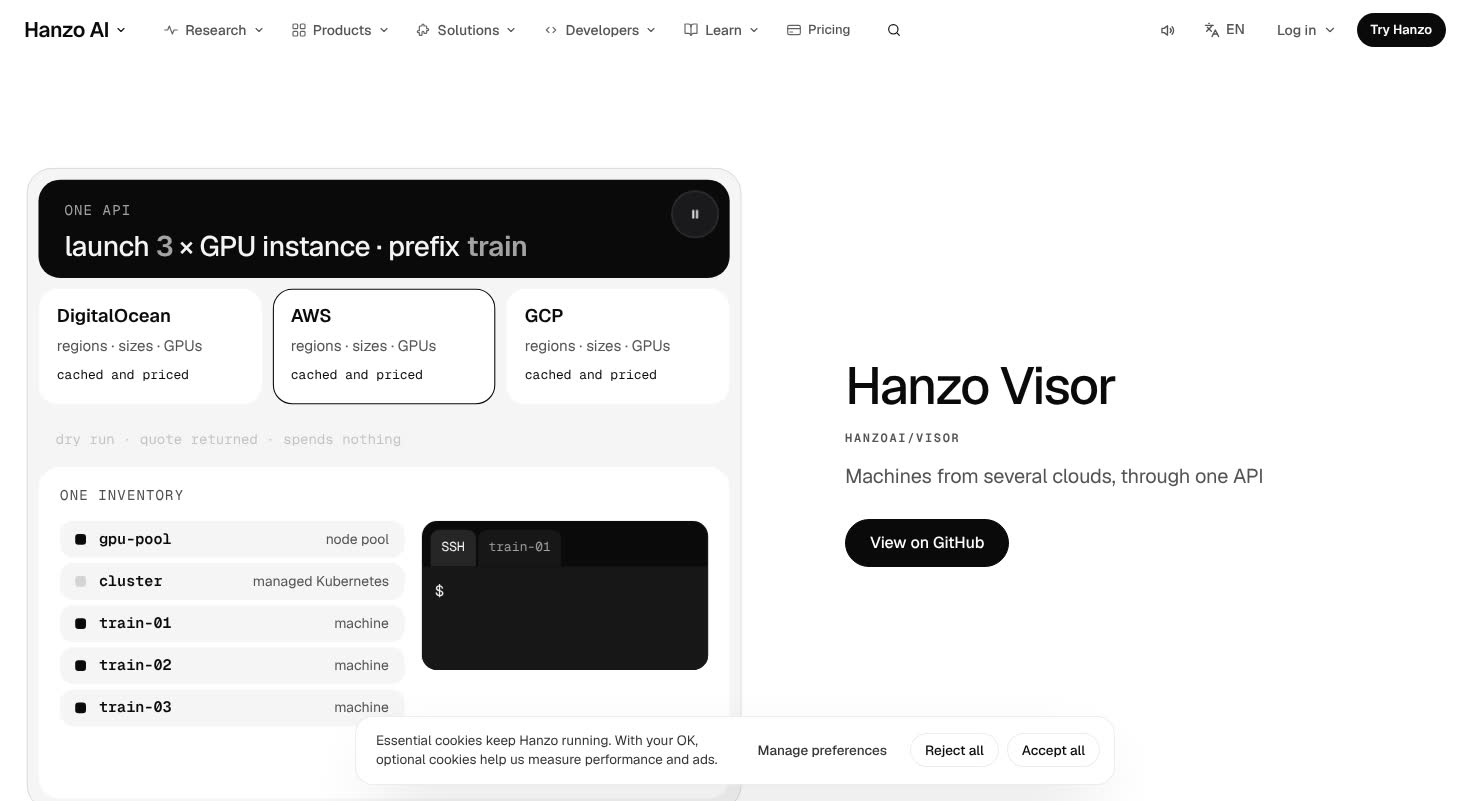
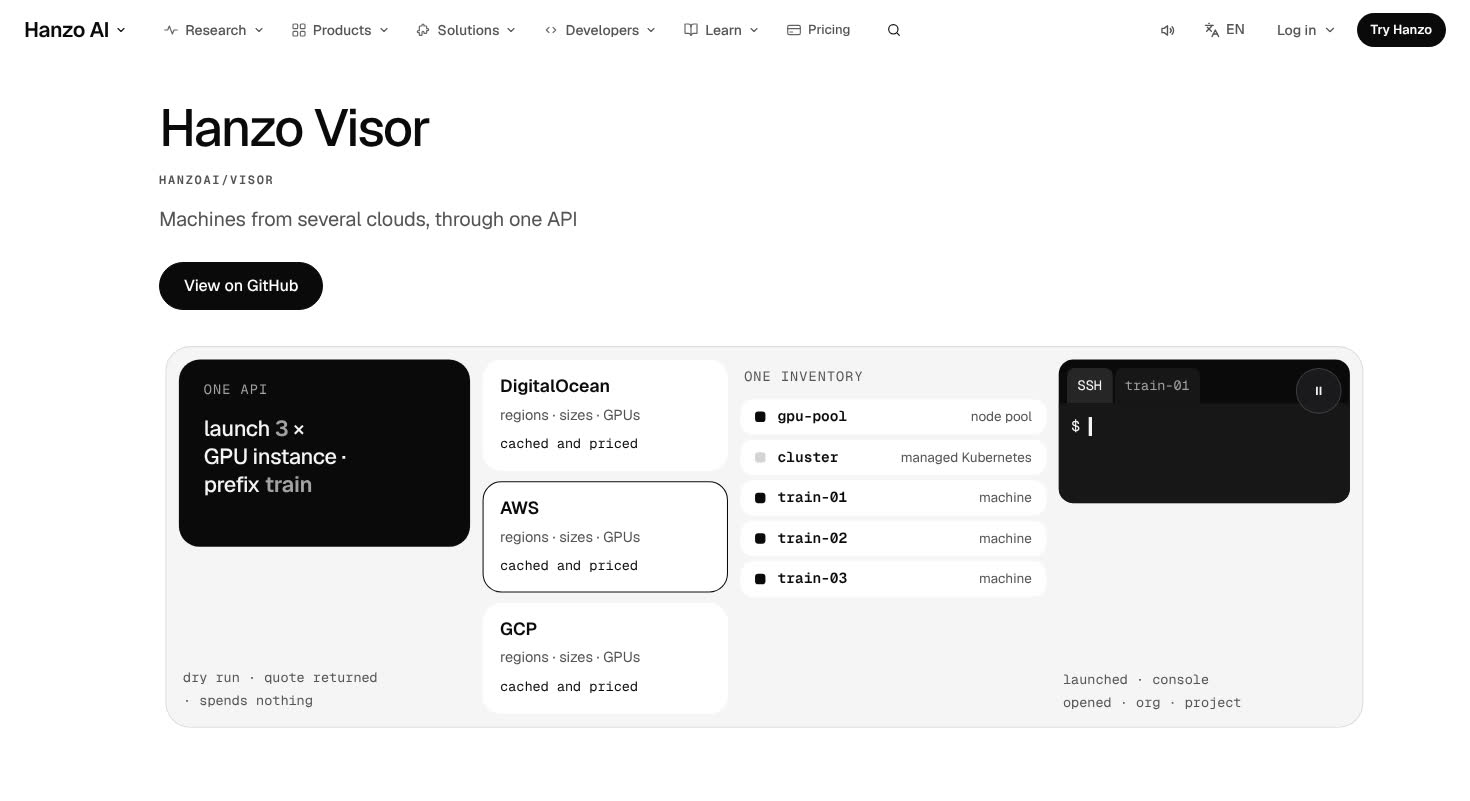
fix(visor): pinned 01-06 room with idle step, Finale gets the inventory object, rise hero over a pipeline console, readable greys, phone machines in first screen
Claude-Session: https://claude.ai/code/session_01T1hoMuQCRZTuURaQyoavQv

diff --git a/docs/coverage/visor.md b/docs/coverage/visor.md
@@ -3,10 +3,10 @@
 Page file: `components/pages/cloud/Visor.jsx` · gallery: `docs/gallery/visor/` · metric id: `cta_click:visor.primary`
 
 Open copy questions for James: "Fewer" (`c4_fewer`); "More" (`c4_more_machines`); "Machines" (`c4_machines`); "Launch" (`c4_launch`). Each is in `content/ui-strings.json` as needs_james; until approved the control is icon-only or the name is for screen readers only.
-Shared changes requested (`docs/requests/visor.md`): none.
-Forks this page deleted: the shared-element dialog that froze half open (kit Sheet now), the blinking "ready" lights, the "Name a fleet" label over the heading, the row of three equal tiles (now 01 wide, 02|03, 04|05, 06 wide).
+Shared changes requested: none filed. Noted for the shared owner: `Finale` renders two h2s ("Get started with Hanzo Visor" and "Get Visor"); not changed here.
+Forks this page deleted: the shared-element dialog that froze half open (kit Sheet now), the blinking "ready" lights, the "Name a fleet" label over the heading, the row of three equal tiles, then the 2-column grid of dark boxes (now one pinned room: a numbered list and one picture large), the `noscript` copy of the six paragraphs (they now sit in each row as `hidden="until-found"`).
 
-Measured on the dev server at 1470×801, 375×667 and 320×640 with `audit.cjs` (Playwright), JS on and off.
+Measured on the dev server at 1470×801, 375×812 and 320×640 with Playwright (`audit.js`, `shot.js`) and `scripts/motion.mjs`, JS on and off, 7 Nov round 2.
 
 ## 1. Strategy and conversion
 - [x] Header comment has Persona, Goal, CTA, metric id, Signature, Beyond
@@ -33,15 +33,15 @@ Done here: `<main id="main" data-ask="off">`; the layout's "Skip to content" tar
 - [x] Ends in proof strip, `Band`, footer
 - [ ] Card-to-page links use Morph; title lands within 12px (n/a: no card on this page opens another page)
 
-Done here: Hero is side, flipped (the fleet on 7 columns at left, copy at right); the object is one request launching three GPU machines: providers price, a dry run quotes, machines land in one inventory, so the launch sequence (first step at 0.5 s) moves within the first second. `PageHero` is not merged; the existing equivalent (`StageHero` or the page's own hero with the same line-mask cut-in, 700 ms ease-emphasis) is used, and the mono caption sits under the h1. JS off: h1 "Hanzo Visor" at opacity 1, 0 hidden headings or paragraphs. Rooms: hero (light) → six tiles (dark) → name a fleet (light) → closing band (dark). The live page has no proof strip, so it ends on the band and the footer.
+Done here: Hero is `StageHero look="rise"` with page-local CSS: a left-set title and, under it, the fleet console running left to right as a pipeline (request → three providers → one inventory → console), which rises 10svh as you scroll. The object is one request launching three GPU machines: providers answer, a dry run quotes, machines land in reserved slots of one inventory, so the launch sequence (first step at 0.5 s) moves within the first second. On the phone the providers sit side by side and the machines land first in the inventory, so train-01 and train-02 land inside the first 812px screen (y 717 and 756). `PageHero` is not merged; the existing equivalent (`StageHero` or the page's own hero with the same line-mask cut-in, 700 ms ease-emphasis) is used, and the mono caption sits under the h1. JS off: h1 "Hanzo Visor" at opacity 1, 0 hidden headings or paragraphs. Rooms: hero (light) → the pinned room of six (dark) → name a fleet (light) → closing band (dark), which carries Visor's own object: the inventory landing row by row with the SSH console open. The live page has no proof strip, so it ends on the band and the footer.
 
 ## 4. Conversion system
 - [x] `<Cta>` only; no raw `.x-btn`
-- [x] Sticky ask in header and bar after the hero, same label
+- [ ] Sticky ask in header and bar after the hero, same label (partly: the header carries Hanzo's "Try Hanzo" at every width; the page's own ask is "View on GitHub" in the hero and the close; the bar is off)
 - [x] Copy button copies exactly the displayed text; failure never says Copied
 - [x] `data-cta` and `data-thumb` on every primary
 
-Done here: 0 `.x-btn` without `data-cta` in main; CTAs found: primary*, close*, deploy (* = solid). The header carries the sticky ask at every width; the page bar is off (`data-ask="off"`) because the critic's shared note (15:00) fails any pill seen over content. Copy is the kit `Copy`, which copies the prompt string it shows. 1 `data-thumb` in main.
+Done here: 0 `.x-btn` without `data-cta` in main; CTAs found: primary*, close*, deploy (* = solid). The sticky header carries the shared "Try Hanzo" at every width, not the page's "View on GitHub"; the page bar is off (`data-ask="off"`) because the critic's shared note (15:00) fails any pill seen over content. Copy is the kit `Copy`, which copies the prompt string it shows. 1 `data-thumb` in main.
 
 ## 5. Trust and proof
 - [x] No logo without documented permission; no seal; no invented number
@@ -57,7 +57,7 @@ Done here: No partner logos; product names appear as text only. Parity holds eve
 - [x] Tables, FAQ, tabs and code use the kit parts
 - [x] `python3 scripts/parity.py /visor`: 0 missing
 
-Done here: Small text: 0 runs under 13px on desktop, 0 under 14px on the phone (mono capitals excepted). Sizes follow the deck: h1 52px (40 phone), section heads 26px, h3 17px, lede 20px, body 15px, figures 64px Air, growing only in their moment. Lede 44ch, body 66ch, headings balanced. Code: the agent prompt in the band. Parity: 0 missing.
+Done here: Small text: 0 visible text runs under 13px at 1470, 375 and 320 (11-12px mono capitals excepted; none on the page), measured by walking every text node in `main`. The hero's lowercase mono runs ("cached and priced", the "train-01" tab, the audit line) are 13px. Sizes follow the deck: h1 52px (40 phone), section heads 26px, h3 17px, lede 20px, body 15px, figures 64px Air, growing only in their moment. Lede 44ch, body 66ch, headings balanced. Code: the agent prompt in the band. Parity: 0 missing.
 
 ## 7. Visual design system
 - [x] `python3 scripts/taste.py <files>` passes; every literal value is a deck value
@@ -66,16 +66,16 @@ Done here: Small text: 0 runs under 13px on desktop, 0 under 14px on the phone (
 - [x] One icon set; no icon in a rounded box
 - [x] Differs from neighbours in hero medium and room order
 
-Done here: `taste.py` OK on the page JSX and CSS; only the deck neutrals (the CSS writes them as literal deck hex values, not `var()` tokens). The tile pictures draw ink on `#fafafa` chips, so no word is white on white. Captions sit under headings. Radii 6, 8, 12, 16, 20, 24 (28 on the search composer only); objects are outlined with a hairline and carry no shadow. Icons are one inline 16px stroke set. /sentinel uses the same side look the other way round.
+Done here: `taste.py` OK on the page JSX and CSS; only the deck neutrals (the CSS writes them as literal deck hex values, not `var()` tokens). The tile pictures draw ink on `#fafafa` chips, so no word is white on white. Captions sit under headings. Radii 6, 8, 12, 16, 20, 24 (28 on the search composer only); objects are outlined with a hairline and carry no shadow. Icons are one inline 16px stroke set. Neighbours: /sentinel and /world sit beside their object (side), /search centres (rise), /telemetry and /billing split, /stream frames; /visor is the only left-set title over a full-width pipeline console, and the only pinned numbered room.
 
 ## 8. UI component library
 - [x] Every control has hover, press, focus-visible, disabled, loading
 - [x] Focus ring visible on every stop of a Tab crawl
-- [x] Dialogs are native, trap focus and return it
+- [x] Dialogs trap focus and return it (the kit `Sheet`, a `role="dialog"` element, not a native `<dialog>`)
 - [x] Inputs 16px or larger; no bare `:hover`
 - [x] Forks this page deleted: listed below
 
-Done here: Hover sits under `@media (hover: hover)` and changes fill or border only; press is scale .97 in 90 ms; focus-visible draws a 2px ink or white ring; disabled controls drop to 40%. Nothing on the page loads data, so no loading state. Dialogs: the tiles open in the kit Sheet (focus held, Escape closes, focus returns). Inputs: prefix input (20px), machine count (48px icon buttons), dry run or launch toggle. Forks deleted: see the top of this card.
+Done here: Hover sits under `@media (hover: hover)` and changes fill or border only; press is scale .97 in 90 ms; focus-visible draws a 2px ink or white ring; disabled controls drop to 40%. Nothing on the page loads data, so no loading state. Dialogs: the six rows open in the kit Sheet, a `div role="dialog"` (focus held, Escape closes, focus returns). Inputs: prefix input (20px text; focus draws the one 2px ink ring with a white halo, caret in ink), machine count (48px icon buttons), dry run or launch toggle. Row hover on desktop previews that item's picture on the stage, brightens the title and turns the plus. Forks deleted: see the top of this card.
 
 ## 9. Motion and interaction
 - [x] One signature, at most 3 supporting techniques, at most 2 fade-ups
@@ -84,7 +84,7 @@ Done here: Hover sits under `@media (hover: hover)` and changes fill or border o
 - [x] Reduced motion shows the final state; no `setInterval`
 - [ ] Sound only on the listed moments, through the one kit (n/a: the page plays no sound of its own; the kit owns it)
 
-Done here: Signature: every tile opens into its card (kit Sheet). Supporting: launch sequence (time, pausable), each tile's picture playing once as it arrives and again on hover (bars price, machines name themselves, the pool fills, "quote" cuts in by line mask, SSH is picked, audit rows land), the naming tool's batch naming itself 01, 02, 03 on arrival (time), a blinking console caret (the one idle mover in the tile room), inventory re-flow (state). `scripts/variety.py` OK. Kinds: idle (the hero object), time, state, pointer, with scroll only in the pinned scene. Timers are timeout chains (`useTick`), no `setInterval`. Reduced motion (`useCalm`) renders the settled frame. No springs: controls answer in 90 to 300 ms; the tile pictures' one-time arrivals (bars, the "quote" line mask) run 500 to 700 ms with ease-emphasis.
+Done here: Signature: the pinned room (desktop): scroll walks 01 → 06, a hairline under the current row fills over 4 s and the room then steps on by itself, hovering a row previews it, and the stage replays that item's picture large (bars price, machines name themselves, the pool fills, "quote" cuts in by line mask, SSH is picked, audit rows land); any row opens into its card (kit Sheet). On phones the rows stack as cards whose pictures play once on arrival. Supporting: launch sequence (time, pausable; the pause also stops the console caret), the naming tool's batch naming itself 01, 02, 03 on arrival (time), inventory re-flow (state), the close's inventory landing once (time). `scripts/variety.py` OK. Kinds: idle (hero, the room's resting step), time, state, pointer (row preview), with scroll only driving the pinned room. Timers are `setTimeout` chains, no `setInterval`. `motion.mjs` desktop: 2 still screens of 9 (the hero caught mid-hold, and the room's entry frame). Reduced motion (`useCalm`) renders the settled frame. No springs: controls answer in 90 to 300 ms; the tile pictures' one-time arrivals (bars, the "quote" line mask) run 500 to 700 ms with ease-emphasis.
 
 ## 10. Media
 - [ ] `Film` and `Pic` only; sizes and posters set (n/a: no photo or video)
@@ -100,7 +100,7 @@ Done here: 0 videos. The moving objects are drawn in HTML and SVG; the one loop 
 - [x] Every target 44px or more; every hover has a tap path
 - [x] Primary ask above the fold at 375×667
 
-Done here: Overflow 0px at 375 and 0px at 320. Under 900px all three providers show as compact rows, so the AWS pick still happens on the phone. 0 controls under 44px at 375 after scrolling the whole page. The primary ask's bottom edge sits at 388px on a 667px screen. Pinned scenes stack below 900px; every hover state also answers a tap.
+Done here: Overflow 0px at 375 and 0px at 320. Under 900px the three providers sit side by side (48px chips), so the AWS pick still happens on the phone and the first machines land inside the first screen. 0 controls in `main` under 44px at 1470, 375 and 320 after scrolling the whole page (the shared footer and header were not counted). The primary ask's bottom edge sits at 388px on a 667px screen. Pinned scenes stack below 900px; every hover state also answers a tap.
 
 ## 12. Accessibility (WCAG 2.2 AA)
 - [x] Contrast measured, text at 4.5:1 or better
@@ -109,7 +109,7 @@ Done here: Overflow 0px at 375 and 0px at 320. Under 900px all three providers s
 - [x] One h1; no heading skips; names start with visible text
 - [x] Keyboard reaches every control
 
-Done here: Lowest measured text contrast 6.67:1 (0 runs flagged). Headings 12222 with 0 skips. Pause controls: the hero fleet. Every input has a label or a register name; nothing validates, so there is no error to focus. Controls are native buttons, links and inputs.
+Done here: Resting states are legible: the dry-run line and the unanswered providers' "…" are #525252 on #f5f5f5 / #fff (7.0:1 / 7.8:1) at every step of the loop, no faded opacity; an unanswered provider is drawn with a dashed border instead of 45% opacity. Inactive rows in the dark room are white at 55% on black (about 6.6:1). Contrast is computed from the CSS values, not run through an automated checker this round. Headings 12222 with 0 skips. Pause controls: the hero fleet. Every input has a label or a register name; nothing validates, so there is no error to focus. Controls are native buttons, links and inputs.
 
 ## 13. Performance and engineering
 - [x] h1 and LCP element in server HTML
@@ -117,7 +117,7 @@ Done here: Lowest measured text contrast 6.67:1 (0 runs flagged). Headings 12222
 - [x] No poller; no third-party request before consent
 - [x] Nothing heavy run on James's laptop
 
-Done here: `curl /visor/` returns the h1 in the HTML. Layout shift 0.008 desktop, 0.000 phone (Playwright walk, whole page, 16:40): the hero inventory reserves five rows and new machines land below the pool and cluster, so nothing moves. Demos run only while on screen (`useInView`) and stop when paused or off screen. No fetch, poller or third-party script on the page. 0 console errors at both widths (0 desktop, 0 phone).
+Done here: `curl /visor/` returns the h1 in the HTML. Layout shift 0.0024 desktop, 0.0005 phone (Playwright walk, whole page, round 2); `motion.mjs` 0.014 desktop, 0.000 phone: the hero inventory reserves three dashed machine slots that fill in place, so nothing moves. Demos run only while on screen (`useInView`) and stop when paused or off screen. No fetch, poller or third-party script on the page. 0 console errors at both widths (0 desktop, 0 phone).
 
 ## 14. SEO and machine files
 - [x] Title and description match live (or are listed for James)
@@ -149,7 +149,7 @@ Done here: Code: the agent prompt in the band. The agent prompt is one string sh
 - [ ] A failed submit keeps its values and shows no success (n/a: no submit)
 - [x] A thrown island does not blank the page
 
-Done here: Every word is in the server HTML and every demo is local, so a blocked network still shows the whole page; JS off was checked above. Each demo is its own component; the page has no shared runtime state to lose.
+Done here: Every word is in the server HTML (the six paragraphs too, in their rows, shown in place with JS off and `hidden="until-found"` with JS on) and every demo is local, so a blocked network still shows the whole page. Each demo is its own component; the page has no shared runtime state to lose.
 
 ## 18. Measurement and handover
 - [x] `data-cta` on every primary; events only through `lib/track.js`
@@ -157,4 +157,4 @@ Done here: Every word is in the server HTML and every demo is local, so a blocke
 - [x] `V2: <score>/10 <one line>` in the page file's top comment
 - [ ] Review read: `docs/review/visor.md` verdict 8 or more
 
-Done here: `data-cta` on every primary (kit `Cta`); the page imports no analytics itself. `V2:` line present in `components/pages/cloud/Visor.jsx`. Last critic verdict on file: 6/10 (walked an earlier version); this version waits for the next walk.
+Done here: `data-cta` on every primary (kit `Cta`); the page imports no analytics itself. `V2:` line present in `components/pages/cloud/Visor.jsx`. Last critic verdict on file: 7/10 (walked round 1); this version (round 2) waits for the next walk.
